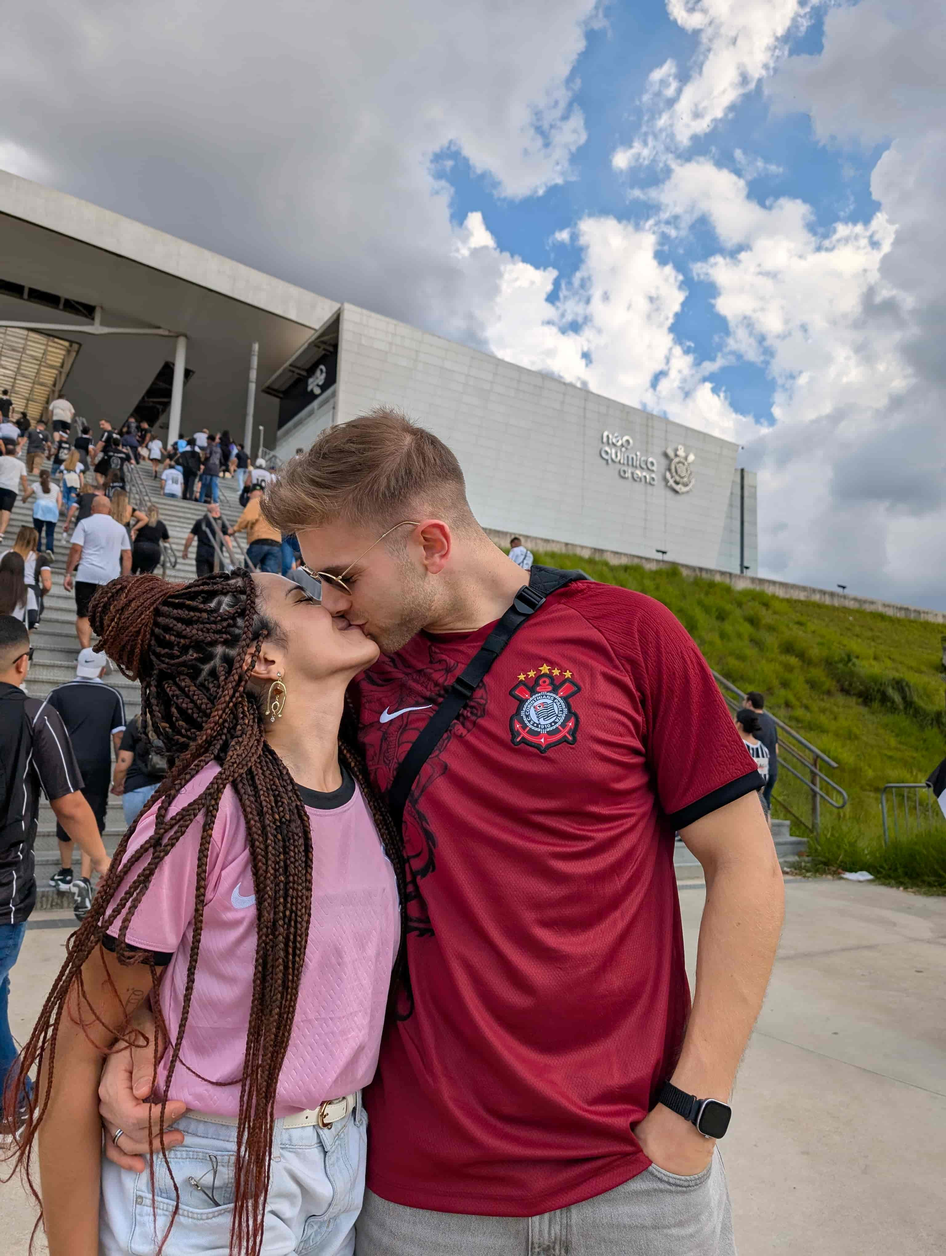
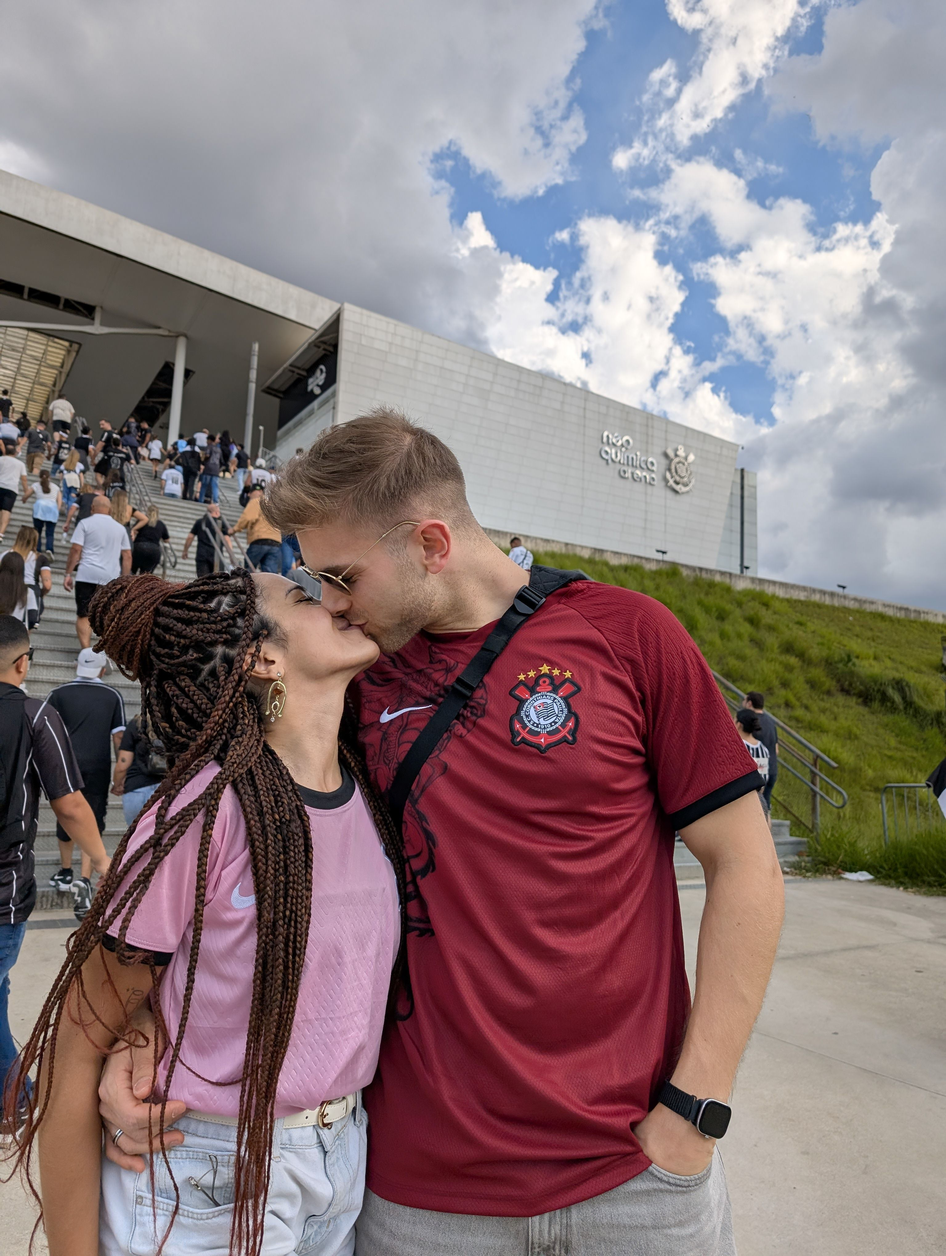
Modified script to rename and compress images. Added new pitctures.

diff --git a/script.js b/script.js
@@ -129,7 +129,11 @@ document.addEventListener('DOMContentLoaded', function () {
     'images/image4.jpg', 'images/image5.jpg', 'images/image6.jpg',
     'images/image7.jpg', 'images/image8.jpg', 'images/image9.jpg',
     'images/image10.jpg', 'images/image11.jpg', 'images/image12.jpg',
-    'images/image13.jpg',
+    'images/image13.jpg', 'images/image14.jpg', 'images/image15.jpg',
+    'images/image16.jpg', 'images/image17.jpg', 'images/image18.jpg',
+    'images/image19.jpg', 'images/image20.jpg', 'images/image21.jpg',
+    'images/image22.jpg', 'images/image23.jpg', 'images/image24.jpg',
+    'images/image25.jpg', 'images/image26.jpg',
   ];
   const backgroundContainer = document.querySelector('.background');
   const switchInterval = 4000;

diff --git a/index.html b/index.html
@@ -7,6 +7,8 @@
 
     <link rel="preload" as="image" href="images/image1.jpg" />
     <link rel="preload" as="image" href="images/image13.jpg" />
+    <link rel="preload" as="image" href="images/image18.jpg" />
+    <link rel="preload" as="image" href="images/image26.jpg" />
 
     <link rel="stylesheet" href="style.css" />
   </head>

diff --git a/rename_and_compress_script.py b/rename_and_compress_script.py
@@ -1,0 +1,58 @@
+import os
+from PIL import Image  # 🔹 added for compression
+
+# TODO: figure out why one pic was resized wrongly (maybe the initial format was different)
+def rename_and_compress_images(folder_path, new_name_prefix="images", start_index=1, quality=80):
+    """
+    Renames and compresses all image files in a specified folder to a sequential format
+    (e.g., images1.jpg, images2.jpg).
+
+    Args:
+        folder_path (str): The path to the folder containing the images.
+        new_name_prefix (str): The prefix for the new file names (e.g., "images" will result in images1.jpg).
+        start_index (int): The starting number for the sequential naming (e.g., 1 for images1.jpg).
+        quality (int): JPEG quality for compression (1-100, higher is better quality).
+    """
+    if not os.path.isdir(folder_path):
+        print(f"Error: Folder '{folder_path}' does not exist.")
+        return
+
+    image_extensions = ('.jpg', '.jpeg', '.png', '.gif', '.bmp', '.tiff', '.webp')
+    image_files = []
+
+    # Collect image files
+    for filename in os.listdir(folder_path):
+        file_path = os.path.join(folder_path, filename)
+        if os.path.isfile(file_path) and filename.lower().endswith(image_extensions):
+            image_files.append(file_path)
+
+    image_files.sort()
+    print(f"Found {len(image_files)} image files in '{folder_path}'.")
+
+    if not image_files:
+        print("No image files found with supported extensions. Exiting.")
+        return
+
+    for i, old_file_path in enumerate(image_files):
+        new_filename = f"{new_name_prefix}{start_index + i}.jpg"  # 🔹 always output as .jpg
+        new_file_path = os.path.join(folder_path, new_filename)
+
+        try:
+            with Image.open(old_file_path) as img:
+                img = img.convert("RGB")  # 🔹 ensure consistent JPEG format
+                #img.thumbnail((1920, 1920))  # optional resize (keeps aspect ratio)
+                img.save(new_file_path, "JPEG", quality=quality, optimize=True)
+
+            # remove old file if different from new one
+            if old_file_path != new_file_path:
+                os.remove(old_file_path)
+
+            print(f"Compressed & renamed '{os.path.basename(old_file_path)}' → '{new_filename}'")
+        except Exception as e:
+            print(f"Error processing '{os.path.basename(old_file_path)}': {e}")
+
+# --- How to use the script ---
+if __name__ == "__main__":
+    image_folder = 'images'  # Adjust path if needed
+    rename_and_compress_images(image_folder, new_name_prefix="image", start_index=1, quality=80)
+    print("\nRenaming & compression complete!")
